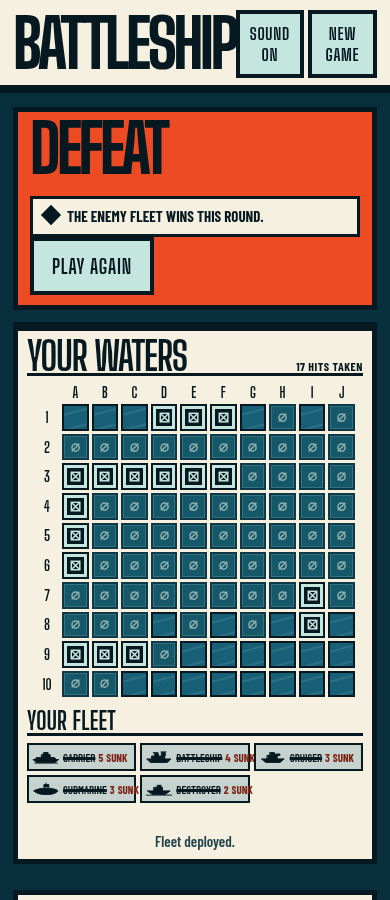
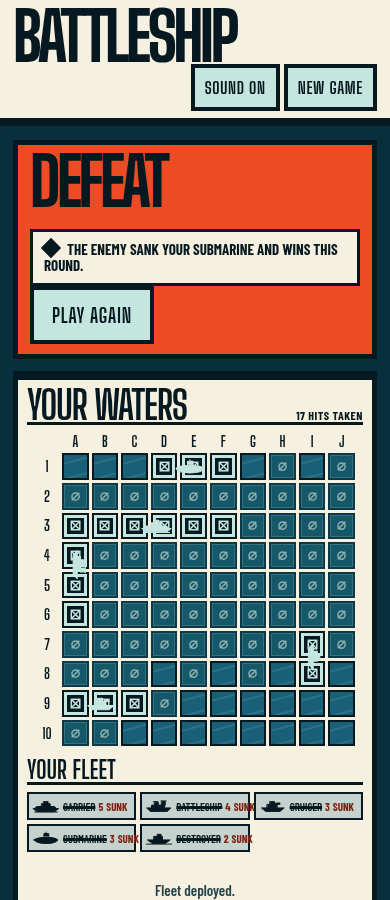
Reveal ship classes on vessel hulls

diff --git a/src/components/Board.tsx b/src/components/Board.tsx
@@ -1,11 +1,12 @@
 import { shipCells } from '../game/combat';
-import type { Board as BoardType, Coordinate } from '../game/types';
+import type { Board as BoardType, Coordinate, ShipName } from '../game/types';
 import { BOARD_SIZE, keyOf } from '../game/types';
 import { Cell } from './Cell';
 import { handleGridKeyDown } from './boardNavigation';
 
 type Preview = {
   start: Coordinate;
+  name: ShipName;
   size: number;
   orientation: 'horizontal' | 'vertical';
 };
@@ -86,6 +87,26 @@ export function Board({
                   : ship && !enemy
                     ? 'ship'
                     : 'unknown';
+                const vessel =
+                  ship && (!enemy || status === 'sunk') && keyOf(ship.start) === key
+                    ? {
+                        name: ship.name,
+                        size: ship.size,
+                        orientation: ship.orientation,
+                      }
+                    : undefined;
+                const previewVessel =
+                  !vessel &&
+                  !enemy &&
+                  preview &&
+                  previewValid &&
+                  keyOf(preview.start) === key
+                    ? {
+                        name: preview.name,
+                        size: preview.size,
+                        orientation: preview.orientation,
+                      }
+                    : undefined;
                 const label = `${String.fromCharCode(65 + cell.col)}${cell.row + 1}, ${
                   status === 'unknown' ? 'unexplored' : status
                 }${ship && (!enemy || status === 'sunk') ? ` ${ship.name}` : ''}`;
@@ -101,6 +122,7 @@ export function Board({
                     previewValid={previewValid}
                     latest={latestShot ? keyOf(latestShot) === key : false}
                     aiming={aimingShot ? keyOf(aimingShot) === key : false}
+                    vessel={vessel ?? previewVessel}
                     onHover={onHover}
                     onCell={onCell}
                     onKeyDown={handleGridKeyDown}

diff --git a/src/hooks/useBattleship.ts b/src/hooks/useBattleship.ts
@@ -135,6 +135,10 @@ export function battleshipReducer(state: GameState, action: Action): GameState {
       const targetLabel = aiTarget
         ? `${String.fromCharCode(65 + aiTarget.col)}${aiTarget.row + 1}`
         : '';
+      const playerShotMessage =
+        outcome.result === 'sunk' && outcome.shipName
+          ? `You sank their ${outcome.shipName}.`
+          : `You ${outcome.result}.`;
       return {
         ...state,
         enemy: outcome.board,
@@ -143,8 +147,8 @@ export function battleshipReducer(state: GameState, action: Action): GameState {
         aiTarget,
         latestEnemyShot: action.coordinate,
         message: playerWon
-          ? 'You sank the entire enemy fleet!'
-          : `You ${outcome.result}. Enemy is taking aim at ${targetLabel}.`,
+          ? `You sank their ${outcome.shipName ?? 'last ship'} and the entire enemy fleet!`
+          : `${playerShotMessage} Enemy is taking aim at ${targetLabel}.`,
       };
     }
     case 'ai-fire': {
@@ -154,6 +158,10 @@ export function battleshipReducer(state: GameState, action: Action): GameState {
       const coordinateLabel = `${String.fromCharCode(65 + outcome.coordinate.col)}${
         outcome.coordinate.row + 1
       }`;
+      const enemyShotMessage =
+        outcome.result === 'sunk' && outcome.shipName
+          ? `Enemy fired at ${coordinateLabel} and sank your ${outcome.shipName}.`
+          : `Enemy fired at ${coordinateLabel} — ${outcome.result}.`;
       return {
         ...state,
         player: outcome.board,
@@ -164,8 +172,8 @@ export function battleshipReducer(state: GameState, action: Action): GameState {
         aiTarget: null,
         latestPlayerShot: outcome.coordinate,
         message: aiWon
-          ? 'The enemy fleet wins this round.'
-          : `Enemy fired at ${coordinateLabel} — ${outcome.result}.`,
+          ? `The enemy sank your ${outcome.shipName ?? 'last ship'} and wins this round.`
+          : enemyShotMessage,
       };
     }
     case 'ai-complete':

diff --git a/src/components/Cell.tsx b/src/components/Cell.tsx
@@ -1,6 +1,7 @@
 import type { KeyboardEvent } from 'react';
-import type { CellMark, Coordinate } from '../game/types';
+import type { CellMark, Coordinate, Orientation, ShipName } from '../game/types';
 import { CellMark as CellMarkIcon } from './CellMark';
+import { ShipIcon } from './ShipIcon';
 
 type CellProps = {
   coordinate: Coordinate;
@@ -11,6 +12,11 @@ type CellProps = {
   previewValid: boolean;
   latest: boolean;
   aiming: boolean;
+  vessel?: {
+    name: ShipName;
+    size: number;
+    orientation: Orientation;
+  };
   onCell?: (cell: Coordinate) => void;
   onHover?: (cell: Coordinate) => void;
   onKeyDown: (event: KeyboardEvent<HTMLButtonElement>, cell: Coordinate) => void;
@@ -25,6 +31,7 @@ export function Cell({
   previewValid,
   latest,
   aiming,
+  vessel,
   onCell,
   onHover,
   onKeyDown,
@@ -36,7 +43,9 @@ export function Cell({
       type="button"
       role="gridcell"
       data-cell={`${coordinate.row},${coordinate.col}`}
-      className={`cell cell-${status} ${latest ? 'cell-latest' : ''} ${
+      className={`cell cell-${status} ${vessel ? 'cell-vessel-anchor' : ''} ${
+        latest ? 'cell-latest' : ''
+      } ${
         preview ? `cell-preview-${previewValid ? 'valid' : 'invalid'}` : ''
       } ${hoverable ? 'cell-interactive' : ''} ${aiming ? 'cell-aiming' : ''}`}
       aria-label={label}
@@ -52,6 +61,17 @@ export function Cell({
         <CellMarkIcon status="aim" />
       ) : (
         status !== 'unknown' && status !== 'ship' && <CellMarkIcon status={status} />
+      )}
+      {vessel && (
+        <span
+          className={`cell-vessel cell-vessel-${vessel.orientation}`}
+          style={{
+            width: `calc(${vessel.size * 100}% + ${(vessel.size - 1) * 3}px)`,
+          }}
+          aria-hidden="true"
+        >
+          <ShipIcon name={vessel.name} />
+        </span>
       )}
     </button>
   );

diff --git a/src/game/combat.ts b/src/game/combat.ts
@@ -1,4 +1,4 @@
-import type { Board, Coordinate, Ship, ShotResult } from './types';
+import type { Board, Coordinate, Ship, ShipName, ShotResult } from './types';
 import { cellsForShip } from './board';
 import { keyOf } from './types';
 
@@ -11,7 +11,7 @@ export const allShipsSunk = (board: Board) =>
 export const fireAt = (
   board: Board,
   coordinate: Coordinate,
-): { board: Board; result: ShotResult } | null => {
+): { board: Board; result: ShotResult; shipName?: ShipName } | null => {
   const key = keyOf(coordinate);
   if (board.shots[key]) return null;
   const shipIndex = board.ships.findIndex((ship) =>
@@ -37,5 +37,6 @@ export const fireAt = (
   return {
     board: { ...board, ships, shots },
     result: sunk ? 'sunk' : 'hit',
+    shipName: sunk ? ship.name : undefined,
   };
 };

diff --git a/src/game/ai.ts b/src/game/ai.ts
@@ -53,6 +53,7 @@ export const aiFire = (
   state: AIState;
   coordinate: Coordinate;
   result: 'hit' | 'miss' | 'sunk';
+  shipName?: Board['ships'][number]['name'];
 } => {
   const coordinate = chooseTarget(board, state, rng);
   const result = fireAt(board, coordinate);
@@ -103,7 +104,13 @@ export const aiFire = (
       next.hits = next.hits.filter((cell) => !sunkKeys.has(keyOf(cell)));
     }
   }
-  return { board: result.board, state: next, coordinate, result: result.result };
+  return {
+    board: result.board,
+    state: next,
+    coordinate,
+    result: result.result,
+    shipName: result.shipName,
+  };
 };
 
 function shipCells(ship: Board['ships'][number]) {

diff --git a/src/styles.css b/src/styles.css
@@ -544,6 +544,37 @@ kbd {
     color 180ms ease-out;
 }
 
+.cell-vessel-anchor {
+  position: relative;
+  z-index: 2;
+  overflow: visible;
+}
+
+.cell-vessel {
+  position: absolute;
+  top: 50%;
+  left: 0;
+  display: block;
+  height: 72%;
+  color: var(--yellow);
+  pointer-events: none;
+  transform: translateY(-50%);
+  transform-origin: left center;
+}
+
+.cell-vessel .ship-icon {
+  display: block;
+  width: 100%;
+  height: 100%;
+}
+
+.cell-vessel-vertical {
+  top: 0;
+  left: 100%;
+  transform: rotate(90deg);
+  transform-origin: top left;
+}
+
 .cell-interactive:hover {
   background: var(--orange);
   color: var(--paper);

diff --git a/src/game/__tests__/combat.test.ts b/src/game/__tests__/combat.test.ts
@@ -21,7 +21,10 @@ describe('combat', () => {
 
   it('reports a sunk ship', () => {
     const first = fireAt(destroyerBoard(), { row: 1, col: 1 })!;
-    expect(fireAt(first.board, { row: 1, col: 2 })?.result).toBe('sunk');
+    expect(fireAt(first.board, { row: 1, col: 2 })).toMatchObject({
+      result: 'sunk',
+      shipName: 'Destroyer',
+    });
   });
 
   it('marks every cell of a sunk ship', () => {

diff --git a/src/components/Game.tsx b/src/components/Game.tsx
@@ -99,6 +99,7 @@ export function Game() {
       hover && selectedSpec
         ? {
             start: hover,
+            name: selectedSpec.name,
             size: selectedSpec.size,
             orientation: state.orientation,
           }

diff --git a/DESIGN.md b/DESIGN.md
@@ -25,6 +25,9 @@ active call to action and combat states.
   repeating as a dinghy stamp in every occupied cell.
 - The attack mark is an authored crosshair-and-projectile SVG used in the fire
   invitation, incoming AI beat, and board legend.
+- Ship silhouettes span each own-board hull once, oriented with the vessel and
+  scaled to its footprint; enemy class silhouettes remain hidden until that
+  vessel is sunk, when the same class identity is revealed.
 - Fired states stay value-separated on petrol water: a quiet flattened-water
   miss, hot orange hit, and dead ink sunk. The legend mirrors the exact
   authored marks, and fleet chips use a compact three-column/two-row rhythm at
